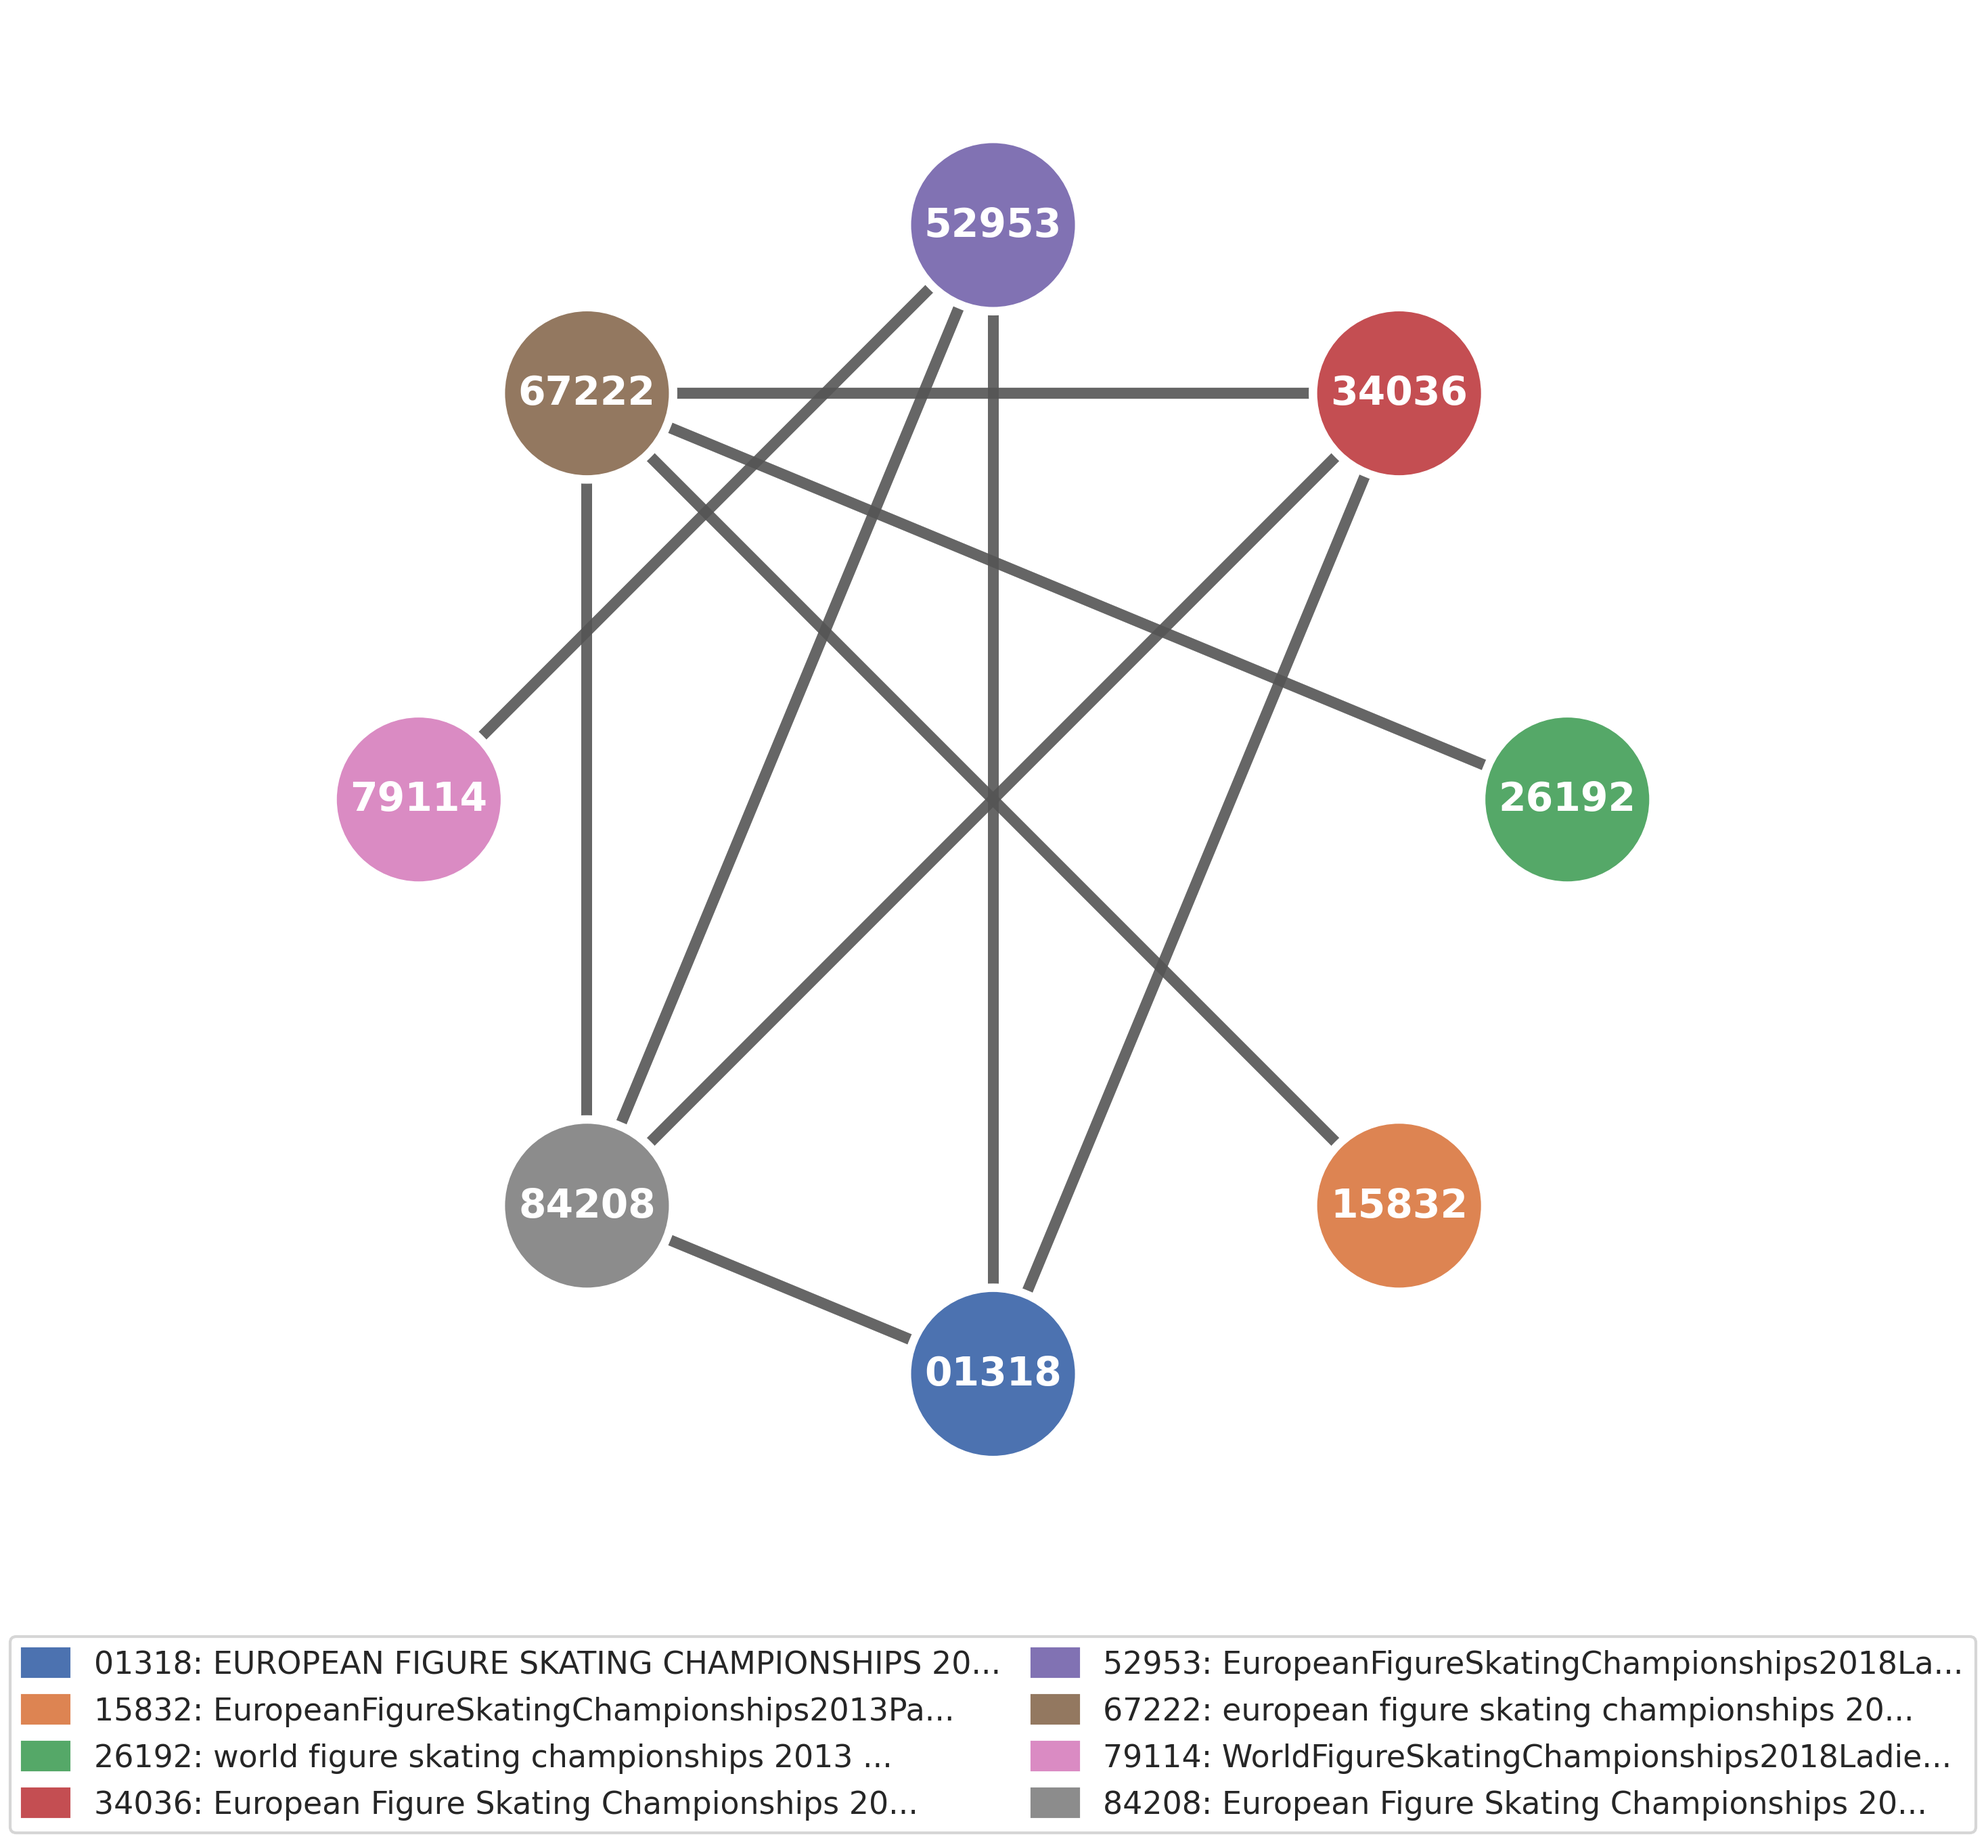
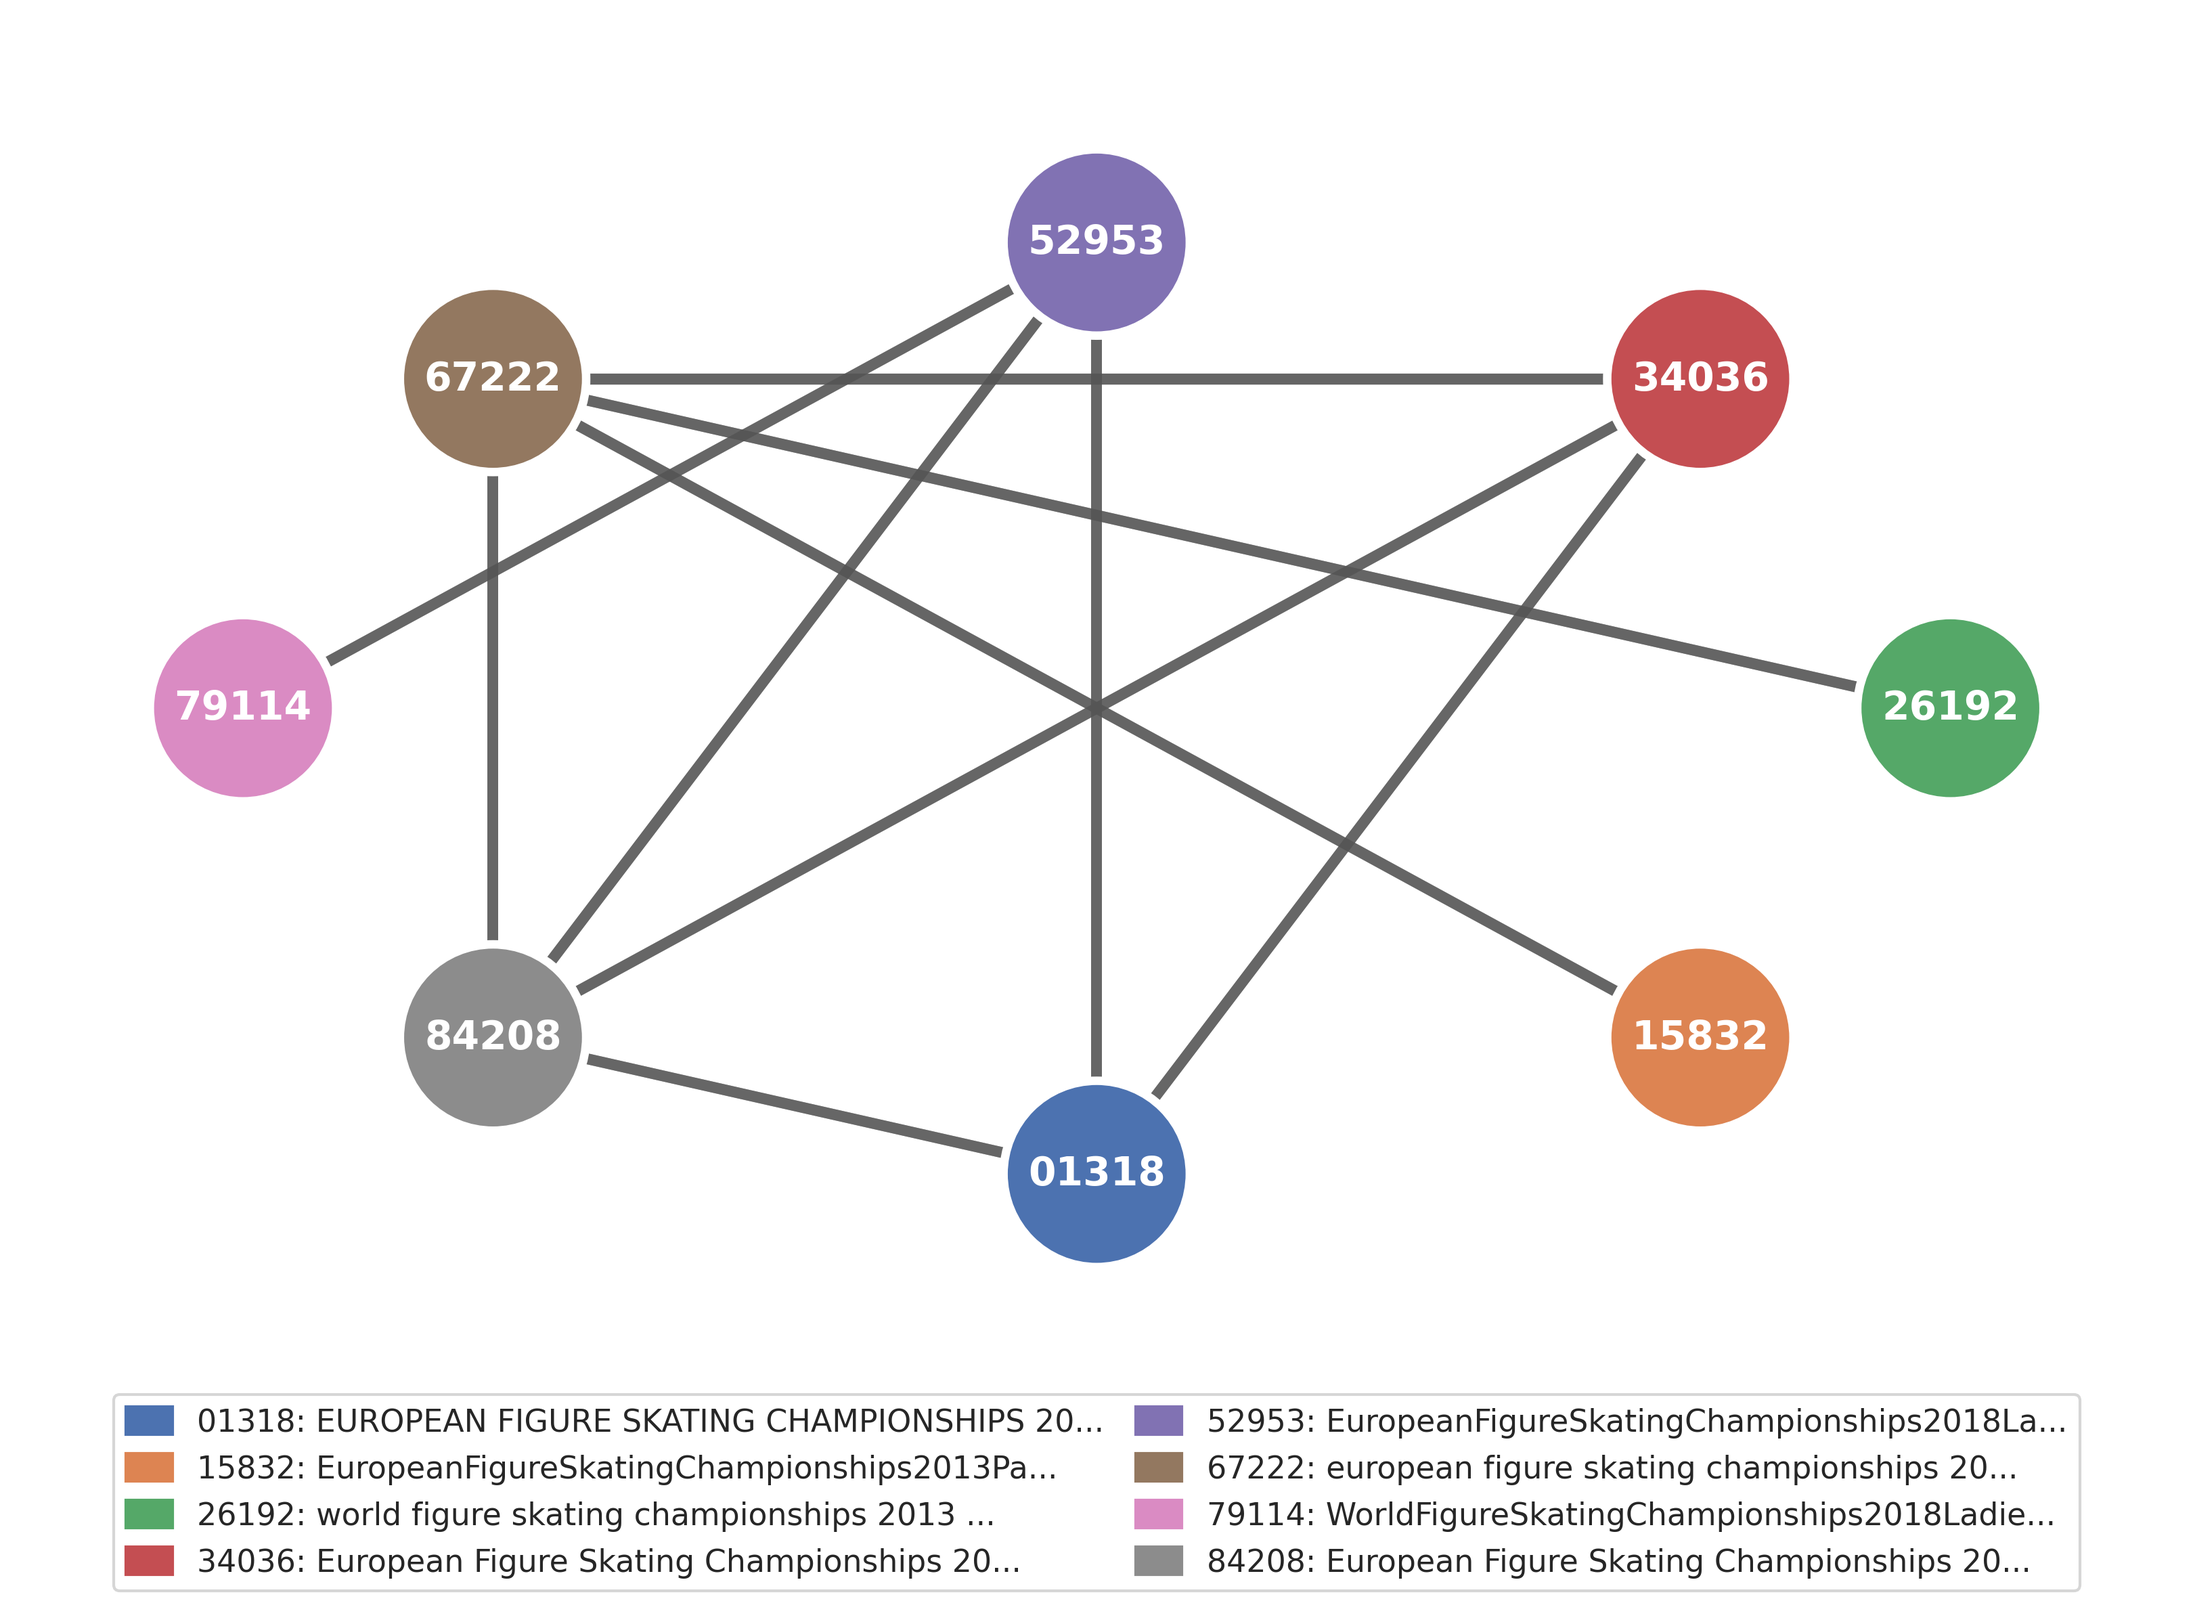
Updatethe figure style

diff --git a/src/analysis/visualize_graph.py b/src/analysis/visualize_graph.py
@@ -103,7 +103,7 @@ def visualize_graph(
     subgraph_data: Dict,
     output_path: str = "graph_visualization.png",
     label_info: str = None,
-    figsize: tuple = (10, 10)
+    figsize: tuple = (12, 8)
 ):
     """Create a professional visualization of the database graph."""
     
@@ -120,11 +120,12 @@ def visualize_graph(
     edge_props = subgraph_data.get('edge_props', {})
     edge_sims = edge_props.get('similarity', None)
     
-    # Create position layout (circular with more spacing)
+    # Create position layout (elliptical - flatter shape)
     angles = np.linspace(0, 2 * np.pi, n_nodes, endpoint=False) - np.pi / 2
-    radius = 4
+    radius_x = 5.5  # Wider horizontal spread
+    radius_y = 3.0  # Shorter vertical spread
     positions = {
-        db_id: (radius * np.cos(angles[i]), radius * np.sin(angles[i]))
+        db_id: (radius_x * np.cos(angles[i]), radius_y * np.sin(angles[i]))
         for i, db_id in enumerate(db_ids)
     }
     
@@ -192,9 +193,9 @@ def visualize_graph(
             zorder=11
         )
     
-    # Set axis properties - tighter bounds
-    ax.set_xlim(-5.5, 5.5)
-    ax.set_ylim(-5.5, 5.5)
+    # Set axis properties - adjusted for elliptical layout
+    ax.set_xlim(-7.0, 7.0)
+    ax.set_ylim(-4.5, 4.5)
     ax.set_aspect('equal')
     ax.axis('off')
     
@@ -211,7 +212,7 @@ def visualize_graph(
     legend = ax.legend(
         handles=legend_handles,
         loc='upper center',
-        bbox_to_anchor=(0.5, -0.02),
+        bbox_to_anchor=(0.5, 0.02),
         ncol=2,  # Two columns for compact layout
         fontsize=11,
         frameon=True,
